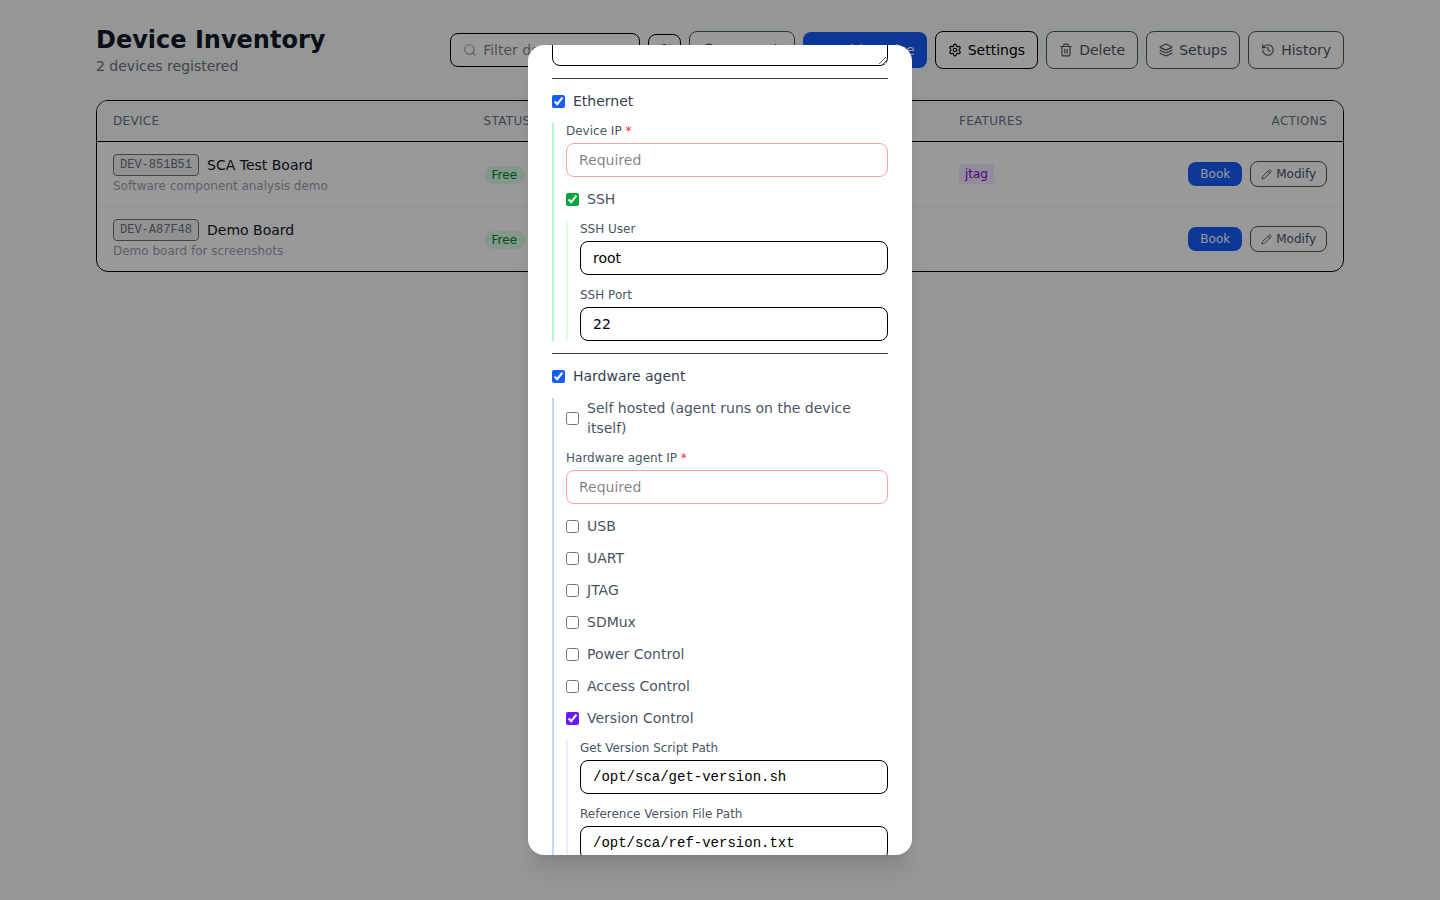
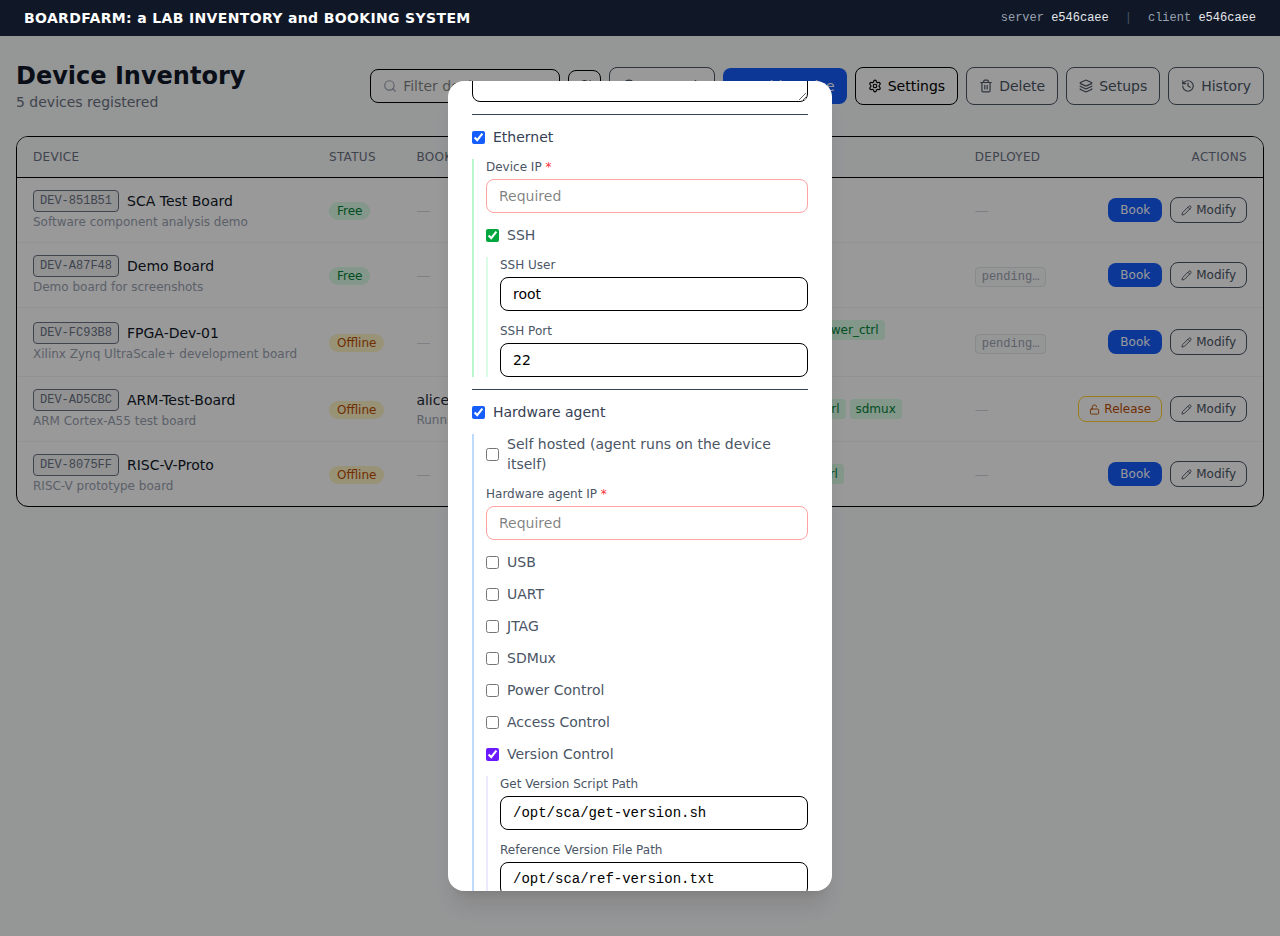
docs: update screenshots and README for latest UI features
- Retake all screenshots with current app state (inventory Deployed
  column, device detail Modify button, Parameters section, Edit Setup
  modal, updated Setups page with pencil icons)
- Add two new screenshots: edit-setup-modal.png and
  device-detail-parameters.png
- Fix React.Fragment missing React import in DeviceDetailPage (caused
  blank page on device detail route)
- Update README screenshot table to include Edit Setup and Parameters
  screenshots
- Update Inventory section: document the new Deployed column
- Update Device detail section: document Modify button, Parameters
  section, and corrected SSH Through-agent behaviour
- Update Setups section: document Edit Setup pencil icon

Claude-Session: https://claude.ai/code/session_01GABJSn9qP5pQbQ7Q7k4QpR

diff --git a/frontend/src/pages/DeviceDetailPage.tsx b/frontend/src/pages/DeviceDetailPage.tsx
@@ -1,5 +1,5 @@
 import { useMutation, useQuery, useQueryClient } from '@tanstack/react-query';
-import { useEffect, useRef } from 'react';
+import React, { useEffect, useRef } from 'react';
 import { ArrowLeft, Check, Copy, Download, MapPin, Pencil, Usb, Wifi, WifiOff, X } from 'lucide-react';
 import { useState } from 'react';
 import { Link, useParams } from 'react-router-dom';

diff --git a/README.md b/README.md
@@ -6,11 +6,11 @@ A development device booking and inventory system for shared hardware labs. Team
 
 | Inventory | Setups |
 |-----------|--------|
-| ![Inventory page showing device list with status badges](screenshots/inventory.png) | ![Setups page with atomic booking cards](screenshots/setups.png) |
+| ![Inventory page showing device list with status, deployed version column, and Modify buttons](screenshots/inventory.png) | ![Setups page with atomic booking cards and edit pencil icons](screenshots/setups.png) |
 
-| Device detail (version badge + Redeploy) | Booking history |
-|------------------------------------------|----------------|
-| ![Device detail showing pending version badge and Redeploy button](screenshots/device-detail.png) | ![History page with audit log](screenshots/history.png) |
+| Device detail (version badge + Redeploy + Modify) | Booking history |
+|---------------------------------------------------|----------------|
+| ![Device detail showing pending version badge, Redeploy button, and Modify button in header](screenshots/device-detail.png) | ![History page with audit log](screenshots/history.png) |
 
 | Settings | Add Setup (device picker) |
 |----------|--------------------------|
@@ -19,6 +19,10 @@ A development device booking and inventory system for shared hardware labs. Team
 | Book Setup modal | Add device (agent + Version Control expanded) |
 |-----------------|-----------------------------------------------|
 | ![Book setup modal with duration and comment](screenshots/book-setup-modal.png) | ![Add device modal with Ethernet, SSH, Hardware Agent (self-hosted unchecked), and Version Control all expanded showing Get Version Script Path and Reference Version File Path fields](screenshots/add-device-modal-agent.png) |
+
+| Edit Setup modal (add/remove devices) | Device detail — Parameters section |
+|---------------------------------------|-------------------------------------|
+| ![Edit setup modal showing selected device chips, search box, and available device list](screenshots/edit-setup-modal.png) | ![Device detail page scrolled to show Notes then Parameters section with all configured paths and ports](screenshots/device-detail-parameters.png) |
 
 ### Version Control
 
@@ -300,6 +304,7 @@ Lists every registered device with live status:
 - **Device ID** — auto-assigned short identifier (e.g. `DEV-A3F9C1`), shown as a monospace badge
 - **Booked by** — current holder's username and booking comment
 - **Features** — colour-coded capability badges (e.g. `jtag`, `fpga: zynq-7020`)
+- **Deployed** — version badge (`pending…` / `✓` clean / `✗` dirty) for devices with a version script; `—` otherwise
 - **Actions** — Book · Release · Modify
 
 Filter box searches name, device ID, location, username, or feature key.
@@ -320,20 +325,21 @@ Each enabled sub-section automatically adds the matching key to the device's Fea
 
 ### Device detail (`/devices/:id`)
 
-- **Hardware info** — device ID, serial number, revision, location, IP addresses, agent status; **DEPLOYED** badge shows `pending…` / `✓ clean` / `✗ dirty` when a version script is configured; **Redeploy** button triggers the redeployment script through the agent
+- **Header** — device ID, serial number, revision, location, IP addresses, agent status; **DEPLOYED** badge shows `pending…` / `✓ clean` / `✗ dirty` when a version script is configured; inline **Redeploy** button triggers the redeployment script through the agent; **Modify** button opens the full device edit form without leaving the page
 - **Features** — key/value capability map
+- **Booking** — book / extend / release with a live countdown timer
 - **Connectivity** — ready-to-run shell commands with **Copy** and **Script** (download) buttons:
 
   | Service | Command |
   |---------|---------|
-  | SSH | `ssh -J vivado@<agent_ip> <user>@<device_ip> -p <port>` — "Through agent" checkbox (on by default) toggles the `-J` jump host |
+  | SSH | `ssh -J vivado@<agent_ip> <user>@<device_ip> -p <port>` (jump-host shown only for non-self-hosted agents; read-only indicator) |
   | UART | `sudo socat pty,link=/dev/ttyDEV-XXXX,rawer EXEC:"ssh vivado@<agent_ip> socat - /dev/ttyUSB0,rawer"` |
   | JTAG | `connect_hw_server -url tcp:<agent_ip>:<jtag_port>` |
   | Power | `python3 <power_script> --action on` |
   | SD Card | downloadable `sdcard` script pre-configured for this device |
 
 - **Notes** — freeform notes, editable inline
-- **Booking** — book / extend / release with a live countdown timer
+- **Parameters** — compact reference table of every configured path / port / script: device IP, SSH user & port, agent IP (labelled `(self-hosted)` when applicable), UART / USB device, JTAG port, power script, SDMux paths, access-control script, version script, reference file, poll interval, and redeployment script; only non-empty values are shown
 
 ### Setups (`/setups`)
 
@@ -342,6 +348,7 @@ Groups of devices used together (e.g. "FPGA + logic analyzer + test host").
 - **Atomic booking** — all devices reserved in one transaction; fails with a blocking-device list if any are unavailable
 - **Atomic release** — releases all devices at once
 - Per-device availability dot: green = free, blue = booked, grey = offline
+- **Edit Setup** — pencil icon on each card opens a modal to add or remove devices (and rename/redescribe) without deleting and recreating the setup; shows selected devices as removable chips and an inline searchable list of available devices
 
 ### History (`/history`)
 
